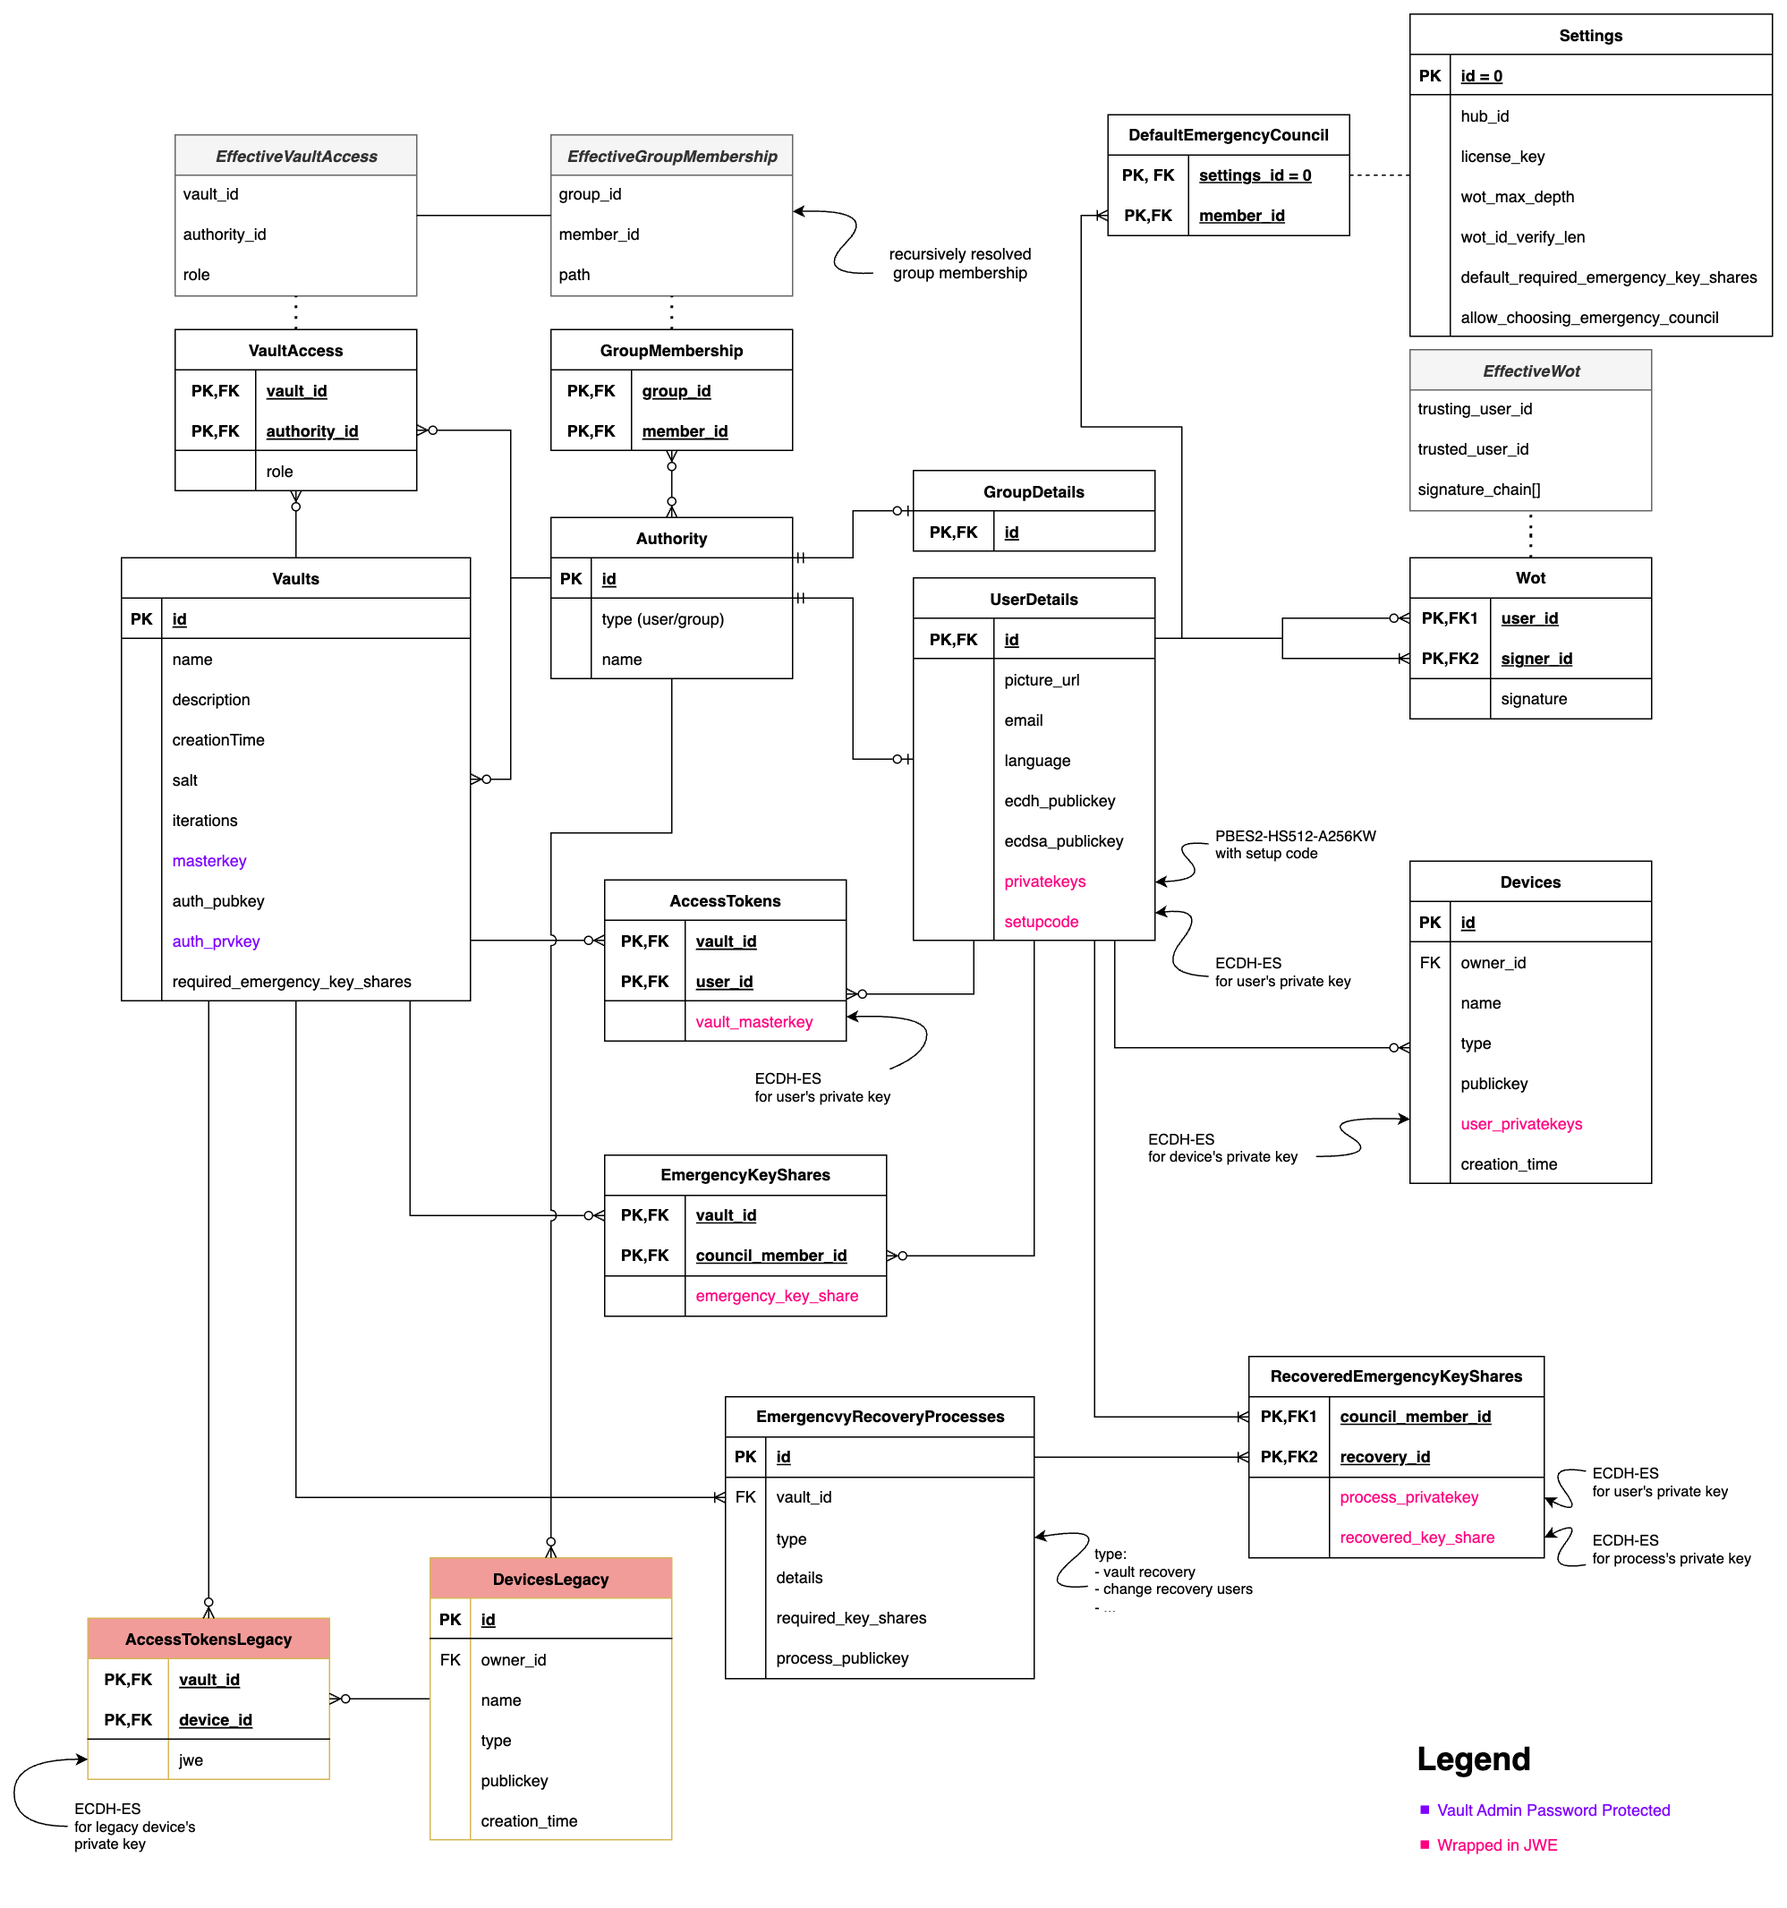
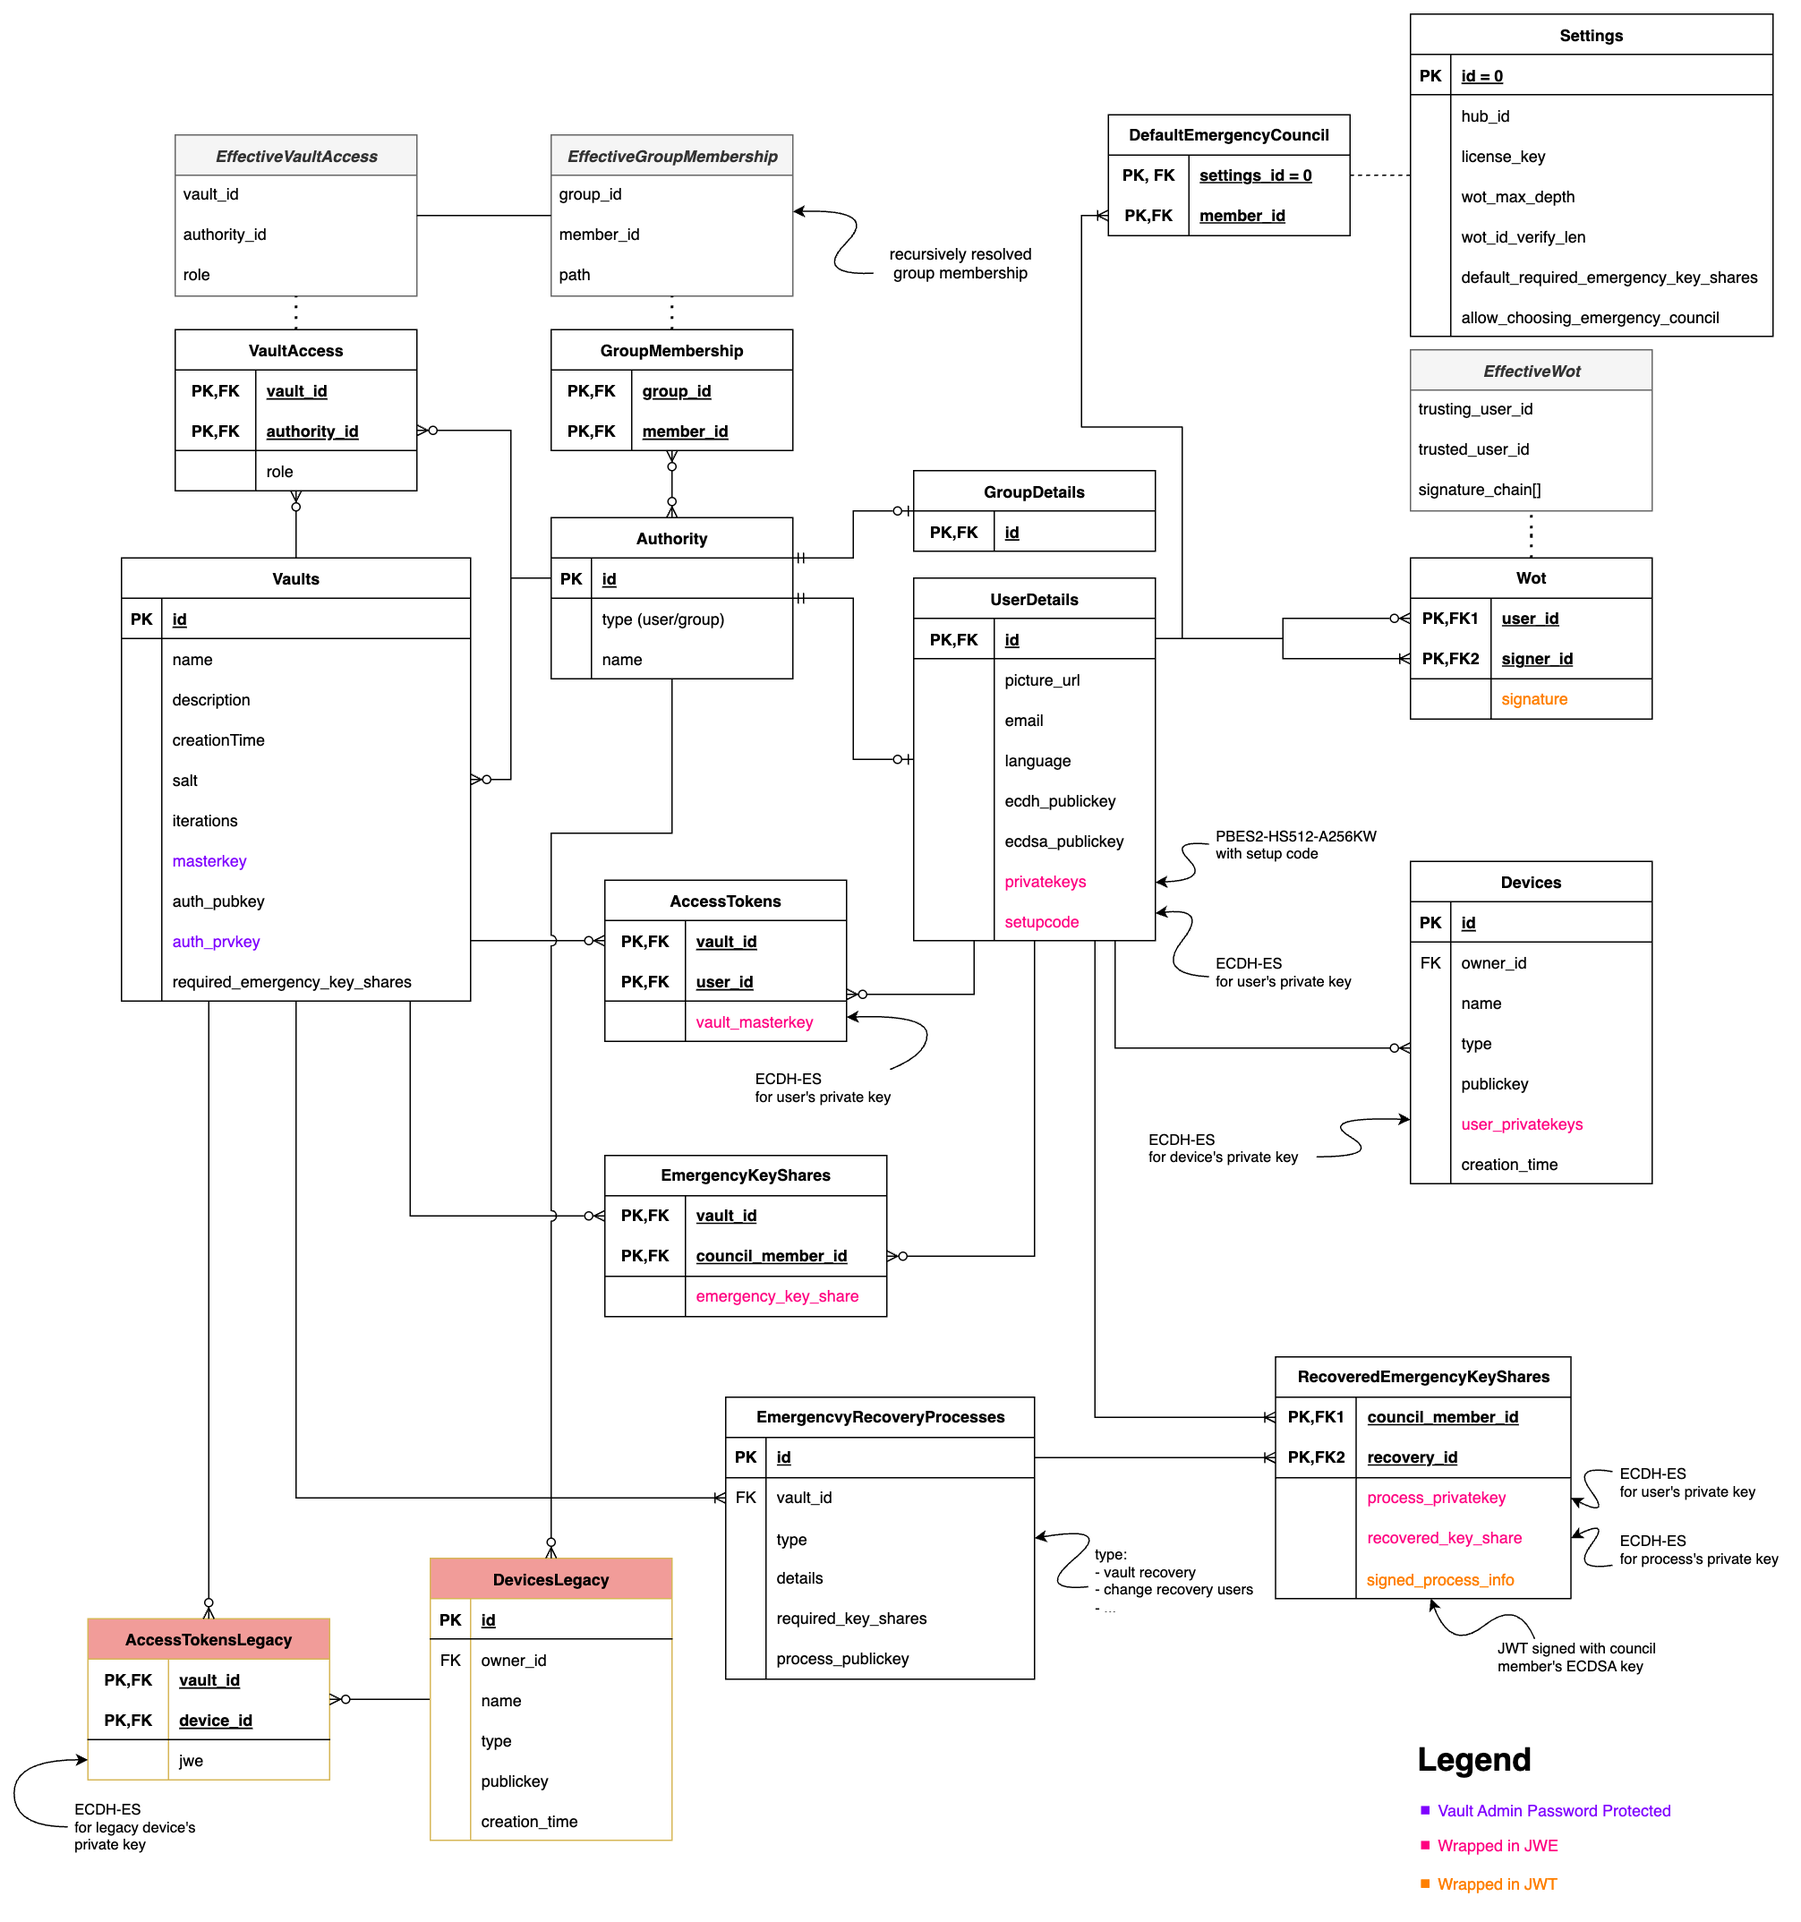
sign and verify recovery process info

diff --git a/frontend/src/components/RecoveryApprovDialog.vue b/frontend/src/components/RecoveryApprovDialog.vue
@@ -210,7 +210,7 @@
 </template>
 
 <script setup lang="ts">
-import backend, { VaultDto, UserDto, RecoveryProcessDto, didCompleteSetup, RecoveryProcessSetNewOwner, RecoveryProcessChangeCouncil, ActivatedUser, AccessGrant } from '../common/backend';
+import backend, { VaultDto, UserDto, RecoveryProcessDto, didCompleteSetup, RecoveryProcessSetNewOwner, RecoveryProcessChangeCouncil, ActivatedUser, AccessGrant, RecoveredKeyShareDto } from '../common/backend';
 import { ref, computed, toRaw, Ref } from 'vue';
 import { useI18n } from 'vue-i18n';
 import { Dialog, DialogOverlay, DialogPanel, DialogTitle, TransitionChild, TransitionRoot } from '@headlessui/vue';
@@ -220,9 +220,10 @@ import userdata from '../common/userdata';
 import MultiUserSelectInputGroup from './MultiUserSelectInputGroup.vue';
 import RequiredKeySharesInput from './emergencyaccess/RequiredKeySharesInput.vue';
 import EmergencyScenarioVisualization from './emergencyaccess/EmergencyScenarioVisualization.vue';
-import { VaultKeys } from '../common/crypto';
+import { asPublicKey, UserKeys, VaultKeys } from '../common/crypto';
 import { wordEncoder } from '../common/util';
 import { base64 } from 'rfc4648';
+import { ECDSA_P384, JWT, JWTHeader } from '../common/jwt';
 const { t } = useI18n({ useScope: 'global' });
 
 const props = defineProps<{
@@ -338,9 +339,8 @@ const phaseDescription = computed(() => {
  * PHASE ONE: Starting the recovery process and adding the first share.
  */
 async function startRecovery() {
+  onError.value = null;
   try {
-    onError.value = null;
-
     // load council members:
     const recoveryCouncilMemberIds = Object.keys(props.vault.emergencyKeyShares);
     const authorities = await backend.authorities.listSome(recoveryCouncilMemberIds);
@@ -395,7 +395,7 @@ async function startRecovery() {
 
     // add my part of the emergency key:
     const userKeys = await userdata.decryptUserKeysWithBrowser();
-    await addMyShare(process, userKeys.ecdhKeyPair.privateKey);
+    process.recoveredKeyShares[props.me.id] = await addMyShare(process, userKeys);
 
     // save and exit:
     await backend.emergencyAccess.startRecovery(process);
@@ -414,16 +414,20 @@ async function approveRecovery() {
   if (!props.recoveryProcess) {
     throw new Error('No recovery process to approve.');
   }
+  onError.value = null;
   try {
-    onError.value = null;
+    const verifiedProcess = await verifyProcessInfo(props.recoveryProcess);
+    if (!verifiedProcess) {
+      throw new Error('Recovery process has been tampered with.');
+    }
 
     // get my user private key:
     const userKeys = await userdata.decryptUserKeysWithBrowser();
 
     // add my part of the emergency key:
     const process = structuredClone(toRaw(props.recoveryProcess));
-    const myRecoveredShare = await addMyShare(process, userKeys.ecdhKeyPair.privateKey);
-    await backend.emergencyAccess.addMyShare(process.id, myRecoveredShare);
+    process.recoveredKeyShares[props.me.id] = await addMyShare(process, userKeys);
+    await backend.emergencyAccess.addMyShare(process.id, process.recoveredKeyShares[props.me.id]);
 
     // done:
     emit('updated', process);
@@ -441,15 +445,19 @@ async function completeRecovery() {
   if (!props.recoveryProcess) {
     throw new Error('No recovery process to complete.');
   }
+  onError.value = null;
   try {
-    onError.value = null;
+    const verifiedProcess = await verifyProcessInfo(props.recoveryProcess);
+    if (!verifiedProcess) {
+      throw new Error('Recovery process has been tampered with.');
+    }
 
     // get my user private key:
     const userKeys = await userdata.decryptUserKeysWithBrowser();
 
     // add my part of the emergency key:
     const process = structuredClone(toRaw(props.recoveryProcess));
-    await addMyShare(process, userKeys.ecdhKeyPair.privateKey);
+    process.recoveredKeyShares[props.me.id] = await addMyShare(process, userKeys);
 
     // collect key parts:
     const keyShares = Object.values(process.recoveredKeyShares).filter(p => p.recoveredKeyShare !== undefined).map(p => p.recoveredKeyShare!);
@@ -496,10 +504,60 @@ async function completeRecovery() {
   }
 }
 
-async function addMyShare(process: RecoveryProcessDto, userPrivateKey: CryptoKey): Promise<string> {
+async function addMyShare(process: RecoveryProcessDto, userKeys: UserKeys): Promise<RecoveredKeyShareDto> {
   const encryptedShare = props.vault.emergencyKeyShares[props.me.id];
-  const recoveredShare = await EmergencyAccess.recoverShare(encryptedShare, userPrivateKey, process.processPublicKey);
-  process.recoveredKeyShares[props.me.id].recoveredKeyShare = recoveredShare;
-  return recoveredShare;
+  const recoveredShare = await EmergencyAccess.recoverShare(encryptedShare, userKeys.ecdhKeyPair.privateKey, process.processPublicKey);
+
+  const processInfo: Pick<RecoveryProcessDto, 'type' | 'details'> = {
+    type: process.type,
+    details: process.details
+  };
+
+  const signedProcessInfo = await JWT.build({
+    alg: 'ES384',
+    typ: 'JWT',
+    b64: true,
+    iss: props.me.id,
+    sub: process.id,
+    iat: Math.floor(Date.now() / 1000)
+  }, processInfo, userKeys.ecdsaKeyPair.privateKey);
+
+  return {
+    ...process.recoveredKeyShares[props.me.id],
+    recoveredKeyShare: recoveredShare,
+    signedProcessInfo: signedProcessInfo
+  };
+}
+
+async function verifyProcessInfo(process: RecoveryProcessDto): Promise<boolean> {
+  const councilMemberIds = Object.keys(process.recoveredKeyShares);
+  const authorities = await backend.authorities.listSome(councilMemberIds);
+  const councilMembers: Record<string, ActivatedUser> = Object.fromEntries(
+    authorities.filter(a => a.type === 'USER').filter(u => didCompleteSetup(u)).map(u => [u.id, u])
+  );
+
+  for (const [councilMemberId, recoveredKeyShare] of Object.entries(process.recoveredKeyShares)) {
+    if (!recoveredKeyShare.recoveredKeyShare) {
+      continue; // skip members that did not add their share yet
+    } else if (!recoveredKeyShare.signedProcessInfo) {
+      console.error(`Missing signed process info for council member ${councilMemberId}.`);
+      return false;
+    } else if (!councilMembers[councilMemberId]) {
+      console.error(`Unknown council member ${councilMemberId}.`);
+      return false;
+    }
+    const councilMember = councilMembers[councilMemberId];
+    const publicKey = await asPublicKey(base64.parse(councilMember.ecdsaPublicKey), ECDSA_P384, ['verify']);
+    const [header, payload] = await JWT.parse(recoveredKeyShare.signedProcessInfo, publicKey) as [JWTHeader, RecoveryProcessDto];
+    if (header.sub !== process.id || header.iss !== councilMemberId) {
+      console.error(`Invalid signed process info for council member ${councilMemberId}.`);
+      return false;
+    }
+    if (payload.type !== process.type || JSON.stringify(payload.details) !== JSON.stringify(process.details)) { // comparing json strings to check "deep" equality. ES6 preserves order of object properties.
+      console.error(`Signed process info for council member ${councilMemberId} does not match the recovery process`, process, payload);
+      return false;
+    }
+  }
+  return true;
 }
 </script>

diff --git a/frontend/src/common/backend.ts b/frontend/src/common/backend.ts
@@ -158,16 +158,19 @@ export type RecoveryProcessChangeCouncil = {
   }
 }
 
+export type RecoveredKeyShareDto = {
+  processPrivateKey: string;
+  recoveredKeyShare?: string;
+  signedProcessInfo?: string;
+};
+
 export type RecoveryProcessDto = (RecoveryProcessSetNewOwner | RecoveryProcessChangeCouncil) & {
   id: string;
   vaultId: string;
   requiredKeyShares: number;
   processPublicKey: string;
   recoveredKeyShares: {
-    [councilMemberId: string]: {
-      processPrivateKey: string;
-      recoveredKeyShare?: string;
-    }
+    [councilMemberId: string]: RecoveredKeyShareDto
   }
 }
 
@@ -480,8 +483,8 @@ class EmergencyAccessService {
     return axiosAuth.put(`/emergency-access/${recoveryProcess.id}`, recoveryProcess);
   }
 
-  public async addMyShare(recoveryProcessId: string, recoveredKeyShareJwe: string): Promise<void> {
-    return axiosAuth.post(`/emergency-access/${recoveryProcessId}/recovered-key-shares`, recoveredKeyShareJwe, { headers: { 'Content-Type': 'text/plain' } });
+  public async addMyShare(recoveryProcessId: string, recoveredKeyShare: RecoveredKeyShareDto): Promise<void> {
+    return axiosAuth.post(`/emergency-access/${recoveryProcessId}/recovered-key-shares`, recoveredKeyShare);
   }
 
   public async delete(recoveryProcessId: string): Promise<void> {

diff --git a/frontend/src/common/jwt.ts b/frontend/src/common/jwt.ts
@@ -8,6 +8,11 @@ export type JWTHeader = {
   [other: string]: undefined | string | number | boolean | object; // allow further properties
 }
 
+export const ECDSA_P384: EcKeyImportParams | EcKeyGenParams = {
+  name: 'ECDSA',
+  namedCurve: 'P-384'
+};
+
 export class JWT {
   /**
    * Creates an ES384 JWT (signed with ECDSA using P-384 and SHA-384).

diff --git a/backend/src/main/java/org/cryptomator/hub/api/EmergencyAccessResource.java b/backend/src/main/java/org/cryptomator/hub/api/EmergencyAccessResource.java
@@ -26,6 +26,7 @@ import org.cryptomator.hub.entities.RecoveredEmergencyKeyShares;
 import org.cryptomator.hub.entities.events.EventLogger;
 import org.cryptomator.hub.util.RawJson;
 import org.cryptomator.hub.validation.ValidJWE;
+import org.cryptomator.hub.validation.ValidJWS;
 import org.eclipse.microprofile.jwt.JsonWebToken;
 import org.eclipse.microprofile.openapi.annotations.Operation;
 import org.eclipse.microprofile.openapi.annotations.responses.APIResponse;
@@ -77,6 +78,7 @@ public class EmergencyAccessResource {
 			keyShareEntity.getId().setCouncilMemberId(memberId);
 			keyShareEntity.setProcessPrivateKey(keyShareDto.processPrivateKey);
 			keyShareEntity.setRecoveredKeyShare(keyShareDto.recoveredKeyShare);
+			keyShareEntity.setSignedProcessInfo(keyShareDto.signedProcessInfo);
 			return keyShareEntity;
 		}));
 		process.setRecoveredKeyShares(keyShares);
@@ -94,18 +96,19 @@ public class EmergencyAccessResource {
 	@POST
 	@Path("/{processId}/recovered-key-shares")
 	@RolesAllowed("user")
-	@Consumes(MediaType.TEXT_PLAIN)
+	@Consumes(MediaType.APPLICATION_JSON)
 	@Operation(summary = "starts a new recovery process")
 	@APIResponse(responseCode = "204", description = "process created")
 	@APIResponse(responseCode = "400", description = "invalid request, e.g. missing required fields")
 	@Transactional
-	public Response addRecoveredKeyShare(@PathParam("processId") UUID processId, String recoveredKeyShareJwe) {
+	public Response addRecoveredKeyShare(@PathParam("processId") UUID processId, RecoveredKeyShareDto dto) {
 		var id = new RecoveredEmergencyKeyShares.Id();
 		id.setRecoveryId(processId);
 		id.setCouncilMemberId(jwt.getSubject());
 
 		var myKeyShare = recoveredKeySharesRepo.findById(id);
-		myKeyShare.setRecoveredKeyShare(recoveredKeyShareJwe);
+		myKeyShare.setRecoveredKeyShare(dto.recoveredKeyShare);
+		myKeyShare.setSignedProcessInfo(dto.signedProcessInfo);
 		recoveredKeySharesRepo.persist(myKeyShare);
 
 		// audit logging
@@ -183,10 +186,10 @@ public class EmergencyAccessResource {
 	}
 
 	@JsonInclude(JsonInclude.Include.NON_NULL)
-	public record RecoveredKeyShareDto(@JsonProperty("processPrivateKey") @ValidJWE String processPrivateKey, @JsonProperty("recoveredKeyShare") @ValidJWE String recoveredKeyShare) {
+	public record RecoveredKeyShareDto(@JsonProperty("processPrivateKey") @ValidJWE String processPrivateKey, @JsonProperty("recoveredKeyShare") @ValidJWE String recoveredKeyShare, @JsonProperty("signedProcessInfo") @ValidJWS String signedProcessInfo) {
 
 		public static RecoveredKeyShareDto fromEntity(RecoveredEmergencyKeyShares entity) {
-			return new RecoveredKeyShareDto(entity.getProcessPrivateKey(), entity.getRecoveredKeyShare());
+			return new RecoveredKeyShareDto(entity.getProcessPrivateKey(), entity.getRecoveredKeyShare(), entity.getSignedProcessInfo());
 		}
 	}
 

diff --git a/backend/src/main/java/org/cryptomator/hub/entities/RecoveredEmergencyKeyShares.java b/backend/src/main/java/org/cryptomator/hub/entities/RecoveredEmergencyKeyShares.java
@@ -1,19 +1,16 @@
 package org.cryptomator.hub.entities;
 
 import io.quarkus.hibernate.orm.panache.PanacheRepositoryBase;
-import io.quarkus.panache.common.Parameters;
 import jakarta.enterprise.context.ApplicationScoped;
 import jakarta.persistence.Column;
 import jakarta.persistence.Embeddable;
 import jakarta.persistence.EmbeddedId;
 import jakarta.persistence.Entity;
-import jakarta.persistence.NoResultException;
 import jakarta.persistence.Table;
 
 import java.io.Serializable;
 import java.util.Objects;
 import java.util.UUID;
-import java.util.stream.Stream;
 
 @Entity
 @Table(name = "recovered_emergency_key_shares")
@@ -27,6 +24,9 @@ public class RecoveredEmergencyKeyShares {
 
 	@Column(name = "recovered_key_share")
 	private String recoveredKeyShare;
+
+	@Column(name = "signed_process_info")
+	private String signedProcessInfo;
 
 	public Id getId() {
 		return id;
@@ -50,6 +50,29 @@ public class RecoveredEmergencyKeyShares {
 
 	public void setRecoveredKeyShare(String recoveredKeyShare) {
 		this.recoveredKeyShare = recoveredKeyShare;
+	}
+
+	public String getSignedProcessInfo() {
+		return signedProcessInfo;
+	}
+
+	public void setSignedProcessInfo(String signedProcessInfo) {
+		this.signedProcessInfo = signedProcessInfo;
+	}
+
+	@Override
+	public boolean equals(Object o) {
+		if (o == null || getClass() != o.getClass()) return false;
+		RecoveredEmergencyKeyShares other = (RecoveredEmergencyKeyShares) o;
+		return Objects.equals(id, other.id)
+				&& Objects.equals(processPrivateKey, other.processPrivateKey)
+				&& Objects.equals(recoveredKeyShare, other.recoveredKeyShare)
+				&& Objects.equals(signedProcessInfo, other.signedProcessInfo);
+	}
+
+	@Override
+	public int hashCode() {
+		return Objects.hash(id, processPrivateKey, recoveredKeyShare, signedProcessInfo);
 	}
 
 	@Embeddable
